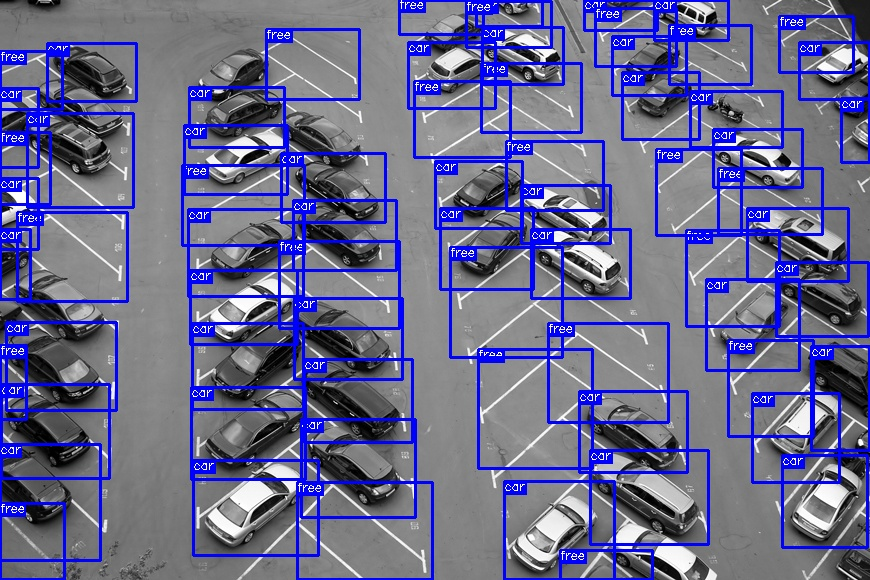
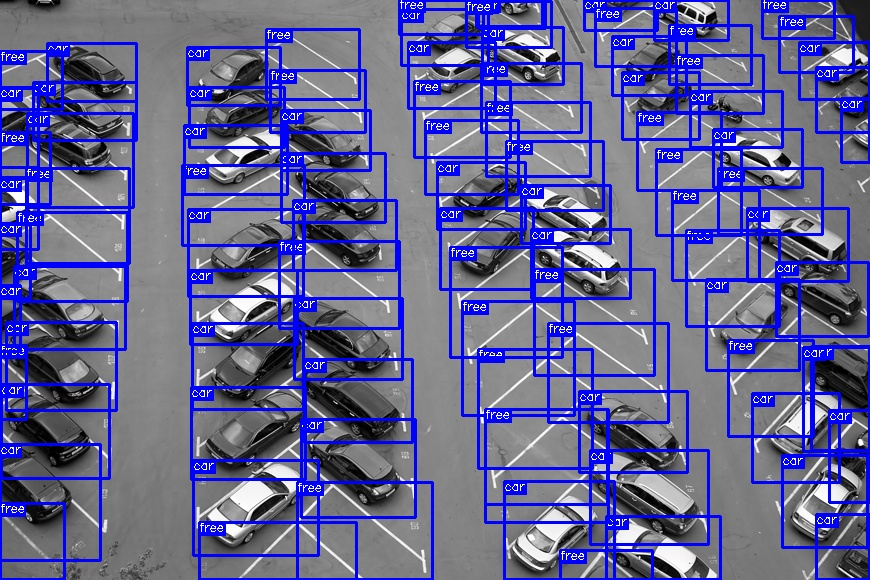
ajout page résultat

diff --git a/front/park-ia/src/app/page.js b/front/park-ia/src/app/page.js
@@ -1,9 +1,14 @@
 "use client"
-import { useEffect, useState } from 'react';
+import { useEffect, useRef, useState } from 'react';
 import { fetchData, postData } from '../../lib/api';
+import { useRouter } from 'next/navigation';
+import Link from 'next/link';
 
 export default function Home() {
   const [imagePreview, setImagePreview] = useState(null);
+  const [imageSize, setImageSize] = useState({ width: 0, height: 0 });
+  const imageRef = useRef(null); // Add this line
+  const router = useRouter();
 
   const handleFileChange = (e) => {
     const file = e.target.files[0];
@@ -28,15 +33,30 @@ export default function Home() {
       const formData = new FormData();
       const base64Response = await fetch(imagePreview);
       const blob = await base64Response.blob();
-      //Pour que ça fonctionne, il faut que l'image soit au format blob
       formData.append('file', blob, 'image.jpg');
   
       const result = await postData('/detect', formData);
-      console.log('Résultat:', result);
+      
+      // Stocker les données dans localStorage
+      localStorage.setItem('parkIA_image', imagePreview);
+      localStorage.setItem('parkIA_detections', JSON.stringify(result));
+      
+      // Rediriger sans paramètres
+      router.push('/detect');
     } catch (error) {
       console.error('Erreur lors de l\'envoi des données :', error);
     }
-  };
+};
+
+
+  useEffect(() => {
+    if (imageRef.current) {
+      setImageSize({
+        width: imageRef.current.clientWidth,
+        height: imageRef.current.clientHeight
+      });
+    }
+  }, [imagePreview]);
 
   return (
     <div className='flex flex-col items-center justify-center'>
@@ -56,36 +76,46 @@ export default function Home() {
           )}
           
           {imagePreview && (
-            <div className='container flex flex-row w-1/2 m-auto justify-center items-center rounded-lg relative'>
-              <div className='flex flex-col w-full justify-center items-center gap-4'>
-                <div>
-                  <div className="relative group">
-                    <img
-                      src={imagePreview}
-                      alt="Aperçu"
-                      className="max-w-full object-contain rounded transition-all duration-300 group-hover:blur-sm"
-                    />
-                    <div className="absolute inset-0 flex items-center justify-center opacity-0 group-hover:opacity-100 transition-opacity duration-300">
-                      <input 
-                        type="file" 
-                        accept="image/*" 
-                        onChange={handleFileChange}
-                        className="opacity-0 absolute inset-0 w-full h-full cursor-pointer"
-                      />
-                      <span className="text-black font-semibold pointer-events-none bg-white/50 px-4 py-2 rounded">
-                        Changer l'image
-                      </span>
-                    </div>
-                  </div>
-                  <div className="flex justify-center">
-                    <button className="mt-4 px-4 py-2 bg-blue-500 text-white rounded hover:bg-blue-600" onClick={handleSubmit}>
-                      Envoyer des données
-                    </button>
-                  </div>
+        <div className='container flex flex-row w-1/2 m-auto justify-center items-center rounded-lg relative'>
+          <div className='flex flex-col w-full justify-center items-center gap-4'>
+            <div>
+              <div className="relative group">
+                <img
+                  ref={imageRef}
+                  src={imagePreview}
+                  alt="Aperçu"
+                  className="max-w-full object-contain rounded transition-all duration-300 group-hover:blur-sm"
+                  onLoad={() => {
+                    setImageSize({
+                      width: imageRef.current.clientWidth,
+                      height: imageRef.current.clientHeight
+                    });
+                  }}
+                />
+                <div className="absolute inset-0 flex items-center justify-center opacity-0 group-hover:opacity-100 transition-opacity duration-300">
+                  <input 
+                    type="file" 
+                    accept="image/*" 
+                    onChange={handleFileChange}
+                    className="opacity-0 absolute inset-0 w-full h-full cursor-pointer"
+                  />
+                  <span className="text-black font-semibold pointer-events-none bg-white/50 px-4 py-2 rounded">
+                    Changer l'image
+                  </span>
                 </div>
               </div>
+              <div className="flex justify-center">
+                <button 
+                  className="mt-4 px-4 py-2 bg-blue-500 text-white rounded hover:bg-blue-600" 
+                  onClick={handleSubmit}
+                > 
+                  Détecter les places
+                </button>
+              </div>
             </div>
-          )}
+          </div>
         </div>
+      )}
+    </div>
   );
 }

diff --git a/front/park-ia/src/app/detect/page.js b/front/park-ia/src/app/detect/page.js
@@ -1,0 +1,98 @@
+"use client"
+import { useEffect, useState, useRef } from 'react';
+import { useRouter } from 'next/navigation';
+import Link from 'next/link';
+
+export default function DetectPage() {
+  const [imageData, setImageData] = useState(null);
+  const [detections, setDetections] = useState(null);
+  const [imageSize, setImageSize] = useState({ width: 0, height: 0 });
+  const imageRef = useRef(null);
+  const router = useRouter();
+
+  useEffect(() => {
+    // Récupérer les données du localStorage
+    const storedImage = localStorage.getItem('parkIA_image');
+    const storedDetections = localStorage.getItem('parkIA_detections');
+
+    if (!storedImage || !storedDetections) {
+      // Rediriger vers la page d'accueil si les données ne sont pas disponibles
+      router.push('/');
+      return;
+    }
+
+    setImageData(storedImage);
+    setDetections(JSON.parse(storedDetections));
+  }, []);
+
+  const renderDetections = (boxes) => {
+    if (!imageRef.current) return null;
+
+    const scaleX = imageRef.current.clientWidth / imageRef.current.naturalWidth;
+    const scaleY = imageRef.current.clientHeight / imageRef.current.naturalHeight;
+
+    return boxes
+      .filter((box) => box.class !== 'car')
+      .map((box, index) => {
+        const x = (box.x - box.width / 2) * scaleX;
+        const y = (box.y - box.height / 2) * scaleY;
+        const width = box.width * scaleX;
+        const height = box.height * scaleY;
+      
+        return (
+          <div
+            key={index}
+            className="absolute border-2 border-green-500"
+            style={{
+              left: `${x}px`,
+              top: `${y}px`,
+              width: `${width}px`,
+              height: `${height}px`,
+              pointerEvents: 'none'
+            }}
+          >
+            <span className="absolute -top-6 left-0 bg-green-500 text-white px-2 py-1 text-sm rounded">
+              {box.class}
+            </span>
+          </div>
+        );
+      });
+  };
+
+  return (
+    <div className='flex flex-col items-center justify-center'>
+      <h1 className='uppercase font-bold text-2xl text-red-500 justify-center mt-5 mb-5'>
+        Résultats de la détection
+      </h1>
+      
+      <div className='container flex flex-row w-1/2 m-auto justify-center items-center rounded-lg relative'>
+        <div className='flex flex-col w-full justify-center items-center gap-4'>
+          <div>
+            <div className="relative">
+              <img
+                ref={imageRef}
+                src={imageData} // Changed from imageUrl to imageData
+                alt="Image analysée"
+                className="max-w-full object-contain rounded"
+                onLoad={() => {
+                  setImageSize({
+                    width: imageRef.current.clientWidth,
+                    height: imageRef.current.clientHeight
+                  });
+                }}
+              />
+              {detections && renderDetections(detections.boxes)}
+            </div>
+            <div className="flex justify-center mt-4">
+              <Link href="/">
+                <button className="px-4 py-2 bg-blue-500 text-white rounded hover:bg-blue-600">
+                  Retour à l'accueil
+                </button>
+              </Link>
+            </div>              
+          </div>
+        </div>
+      </div>
+    </div>
+  );
+}

diff --git a/back/roboflow_detect.py b/back/roboflow_detect.py
@@ -1,12 +1,10 @@
 from roboflow import Roboflow
 
-# Initialise Roboflow une seule fois
-rf = Roboflow(api_key="NyMVhqsspNvipvttBfkQ")  # 🔑 à remplacer
+rf = Roboflow(api_key="NyMVhqsspNvipvttBfkQ")
 project = rf.workspace("minervas-workspace-7comk").project("car-parking-occupation")
-model = project.version(1).model  # adapte si version différente
-
+model = project.version(1).model
 def detect_parking(image_path: str, save_path: str = "static/annotated.jpg"):
-    results = model.predict(image_path, confidence=40, overlap=30)
+    results = model.predict(image_path, confidence=40, overlap=0.88)
     results.save(save_path)
 
     raw = results.json()
